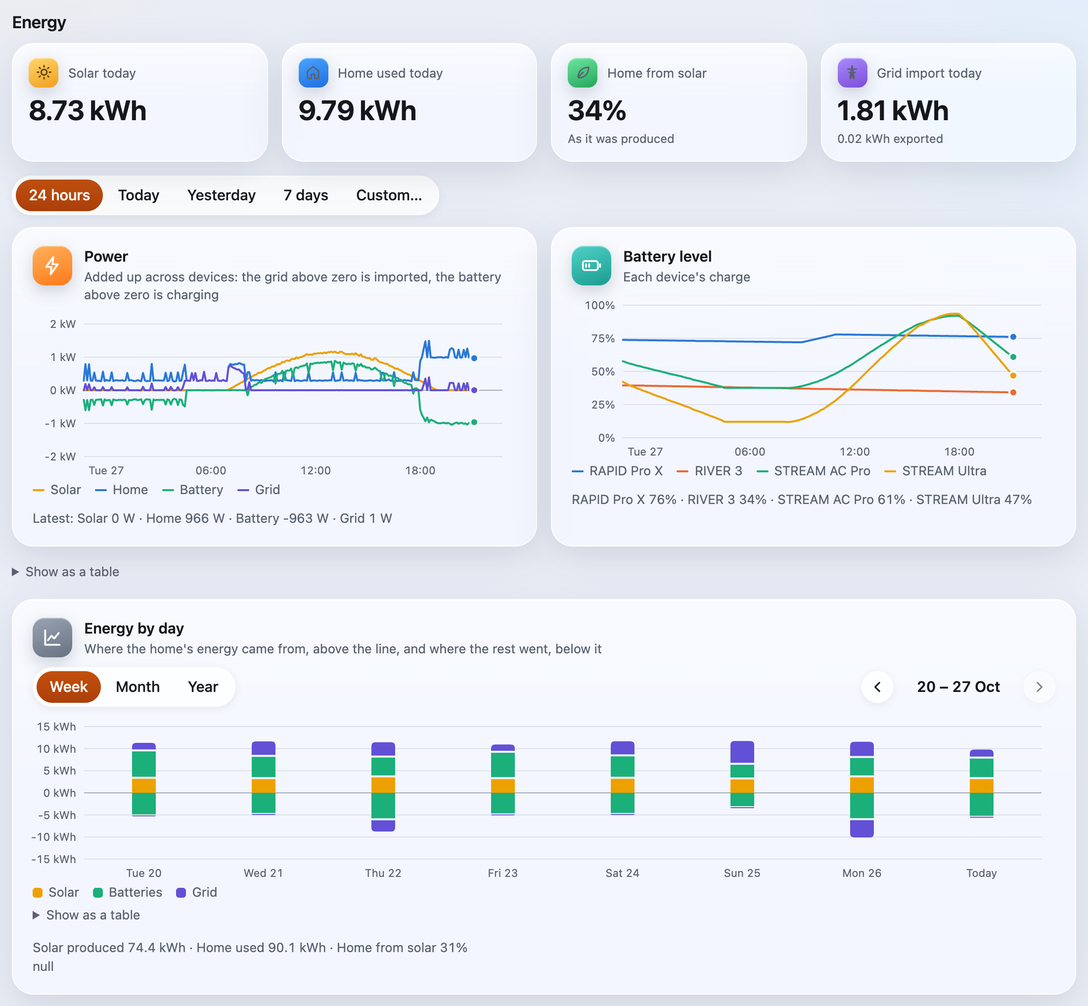
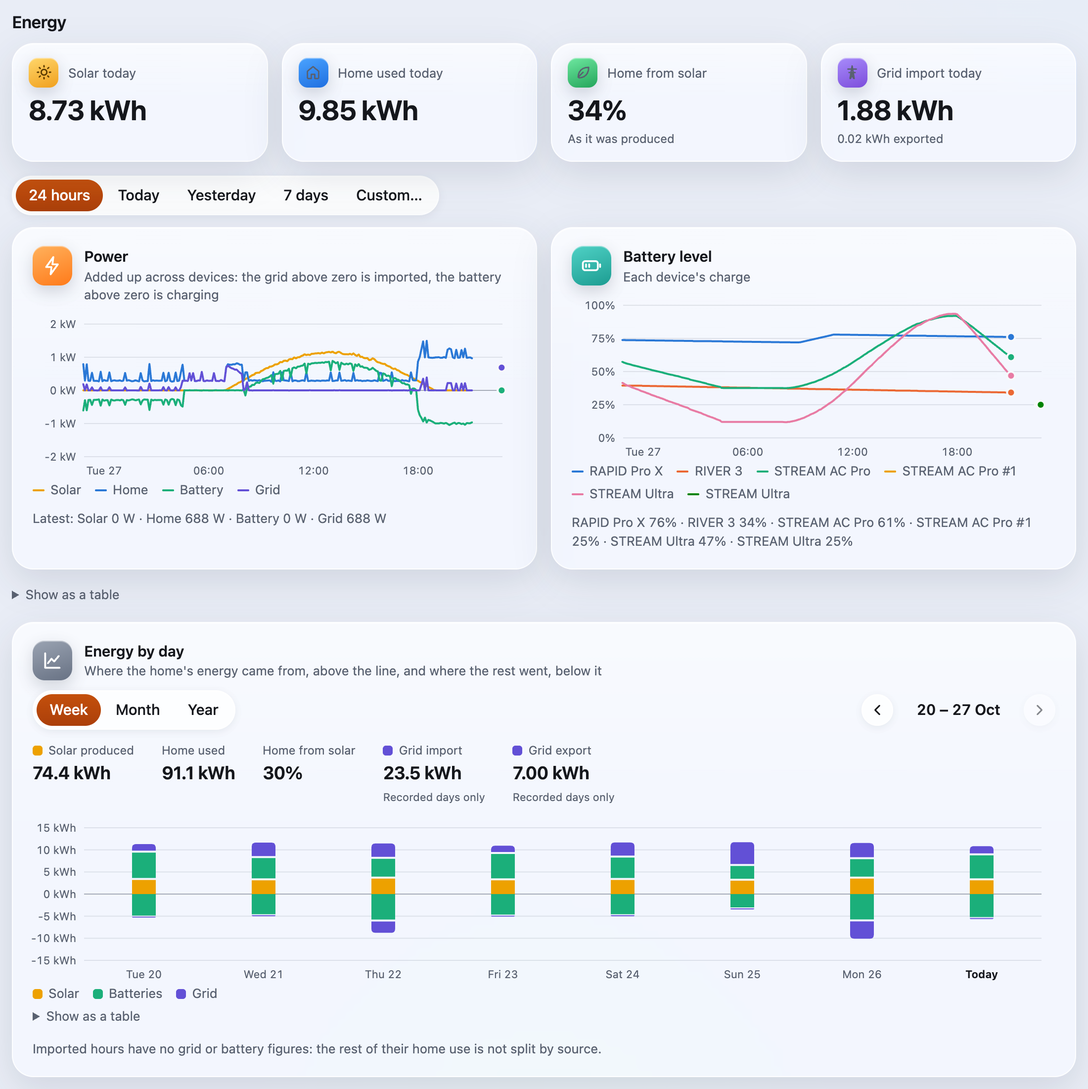
Energy history: the period's totals over the bars, honest tooltips
The period's totals sit over the bars as labelled figures, a colour key
only for what the bars draw, the grid's marked as covering recorded days
only when the period has imported ones. A tooltip shows a dash, not a
zero, for a flow an imported day does not know. The bar of today, or of
this month, has its label emphasised. On a phone the period control spans
the width and the arrows sit on their own row. An empty note no longer
prints null.

diff --git a/Sources/HomeswiftUI/WebAssets.swift b/Sources/HomeswiftUI/WebAssets.swift
@@ -2275,9 +2275,12 @@ el("p", { class: "muted", text: t("A backup made by Download a backup or kept be
     const previous = el("button", { type: "button", class: "menu-button", "aria-label": t("Previous period"), onclick: () => move(-1) }, HomeswiftCommon.icon("back"));
     const next = el("button", { type: "button", class: "menu-button", "aria-label": t("Next period"), onclick: () => move(1) }, HomeswiftCommon.icon("forward"));
     const periodLabel = el("strong", { class: "energy-period", "aria-live": "polite" });
+    // The period's totals, over the bars.
+    const summary = el("div", { class: "energy-totals" });
     days.node.insertBefore(el("div", { class: "energy-history-bar" },
       el("div", { class: "group", role: "radiogroup", "aria-label": t("Period") }, viewButtons),
       el("div", { class: "energy-period-nav" }, previous, periodLabel, next)), days.body);
+    days.node.insertBefore(summary, days.body);
     let earliest = null, historyAsked = 0;
     const today = el("div", { class: "energy-today" });
     // The charts' points as a table, folded until asked for (the colours alone are not enough to read them by).
@@ -2413,7 +2416,8 @@ el("p", { class: "muted", text: t("A backup made by Download a backup or kept be
       const chartBars = bars.map((bar) => ({
         label: monthly ? shortMonth.format(dateOf(bar)) : view === "month" ? String(dateOf(bar).getDate()) : name(bar, shortDay),
         narrow: monthly ? narrowMonth.format(dateOf(bar)) : String(dateOf(bar).getDate()),
-        title: name(bar, monthly ? monthYear : dayFormat), values: known(bar) ? bar : null }));
+        title: name(bar, monthly ? monthYear : dayFormat), values: known(bar) ? bar : null,
+        current: monthly ? bar.date === today.slice(0, 7) : bar.date === today }));
       const key = view + "\n" + segments.map((one) => one.label).join("\n");
       days.titleNode.textContent = monthly ? t("Energy by month") : t("Energy by day");
       if (days.view && days.key === key) days.view.update(chartBars);
@@ -2421,7 +2425,7 @@ el("p", { class: "muted", text: t("A backup made by Download a backup or kept be
         days.body.replaceChildren();
         days.key = key;
         days.view = HomeswiftChart.stackedBars(days.body, { title: days.titleNode.textContent, legend, bars: chartBars, format: formatKWh, unit: () => 1,
-          segments: segments.map((one) => ({ ...one, value: (values) => values ? (one.below ? -1 : 1) * (values[one.field] ?? 0) : 0 })) });
+          segments: segments.map((one) => ({ ...one, value: (values) => values?.[one.field] == null ? null : (one.below ? -1 : 1) * values[one.field] })) });
         days.body.append(dayTable);
       }
 
@@ -2431,14 +2435,26 @@ el("p", { class: "muted", text: t("A backup made by Download a backup or kept be
       previous.disabled = !earliest || first <= earliest;
       next.disabled = !anchor;
 
-      // The period's totals, and why imported hours have their home use not split.
+      // The period's totals, each labelled with its colour, over the bars; under them, why imported hours have their
+      // home use not split.
       const sum = (field) => bars.filter(known).reduce((total, bar) => bar[field] == null ? total : (total ?? 0) + bar[field], null);
-      const solar = sum("solar"), home = sum("home"), fromSolar = sum("homeFromSolar");
-      const totals = [solar != null ? `${t("Solar produced")} ${formatKWh(solar)}` : null, home != null ? `${t("Home used")} ${formatKWh(home)}` : null,
-        home > 0 && fromSolar != null ? `${t("Home from solar")} ${formatPercent(fromSolar / home * 100)}` : null].filter(Boolean).join(" · ");
-      days.detail.replaceChildren(
-        el("div", { text: totals || t("Nothing recorded in this period") }),
-        bars.some((bar) => bar.importedHours) ? el("div", { text: t("Imported hours have no grid or battery figures: the rest of their home use is not split by source.") }) : null);
+      const solar = sum("solar"), home = sum("home"), fromSolar = sum("homeFromSolar"), imported = sum("gridImport"), exported = sum("gridExport");
+      // A key only for a colour the bars draw; the grid's figures, known for the days the bridge recorded only, say so
+      // when the period has imported days too.
+      const partly = bars.some((bar) => bar.importedHours);
+      const total = (tone, label, value, note) => el("div", { class: "energy-total" },
+        el("span", {}, tone ? el("i", { class: `key bar tone-${tone}`, "aria-hidden": "true" }) : null, label), el("b", { text: value }),
+        note ? el("small", { text: note }) : null);
+      const totals = [
+        solar != null ? total(4, t("Solar produced"), formatKWh(solar)) : null,
+        home != null ? total(null, t("Home used"), formatKWh(home)) : null,
+        home > 0 && fromSolar != null ? total(null, t("Home from solar"), formatPercent(fromSolar / home * 100)) : null,
+        imported != null ? total(7, t("Grid import"), formatKWh(imported), partly ? t("Recorded days only") : null) : null,
+        exported != null ? total(7, t("Grid export"), formatKWh(exported), partly ? t("Recorded days only") : null) : null,
+      ].filter(Boolean);
+      summary.replaceChildren(...(totals.length ? totals : [el("span", { class: "muted", text: t("Nothing recorded in this period") })]));
+      days.detail.replaceChildren(...[bars.some((bar) => bar.importedHours)
+        ? el("div", { text: t("Imported hours have no grid or battery figures: the rest of their home use is not split by source.") }) : null].filter(Boolean));
 
       const columns = [
         has("solar") ? [t("Solar produced"), "solar", formatKWh] : null,
@@ -5855,10 +5871,11 @@ el("p", { class: "muted", text: t("A backup made by Download a backup or kept be
     };
   }
 
-  /// Stacked bars in `container`, one per item of `bars` (`{ label, narrow, title, values }`, oldest first; `narrow` under a
-  /// bar too narrow for its label): `segments` are
+  /// Stacked bars in `container`, one per item of `bars` (`{ label, narrow, title, values, current }`, oldest first;
+  /// `narrow` under a bar too narrow for its label, `current` the period of today, its label emphasised): `segments` are
   /// `{ label, tone, value(values) }`, stacked up from zero for a positive value and down for a negative one, so a bar
-  /// can show what came in above the line and what went out below it. `format` writes a value with its unit and
+  /// can show what came in above the line and what went out below it. A value of null is not known: it draws nothing
+  /// and the tooltip shows a dash, not a zero. `format` writes a value with its unit and
   /// `unit(max)` sizes the ticks, as for `lineChart`. A tooltip lists a bar's segments, on hover and with the arrow keys.
   /// Returns `update(bars)`.
   /// `legend` (`{ label, tone }`) names the colours when segments share one (an entity above and below the line).
@@ -5883,7 +5900,8 @@ el("p", { class: "muted", text: t("A backup made by Download a backup or kept be
       const width = Math.max(frame.clientWidth, 240);
       const bars = state;
       const plotWidth = width - pad.left - pad.right, plotHeight = height - pad.top - pad.bottom;
-      const sums = bars.map((bar) => segments.map((one) => one.value(bar.values) ?? 0));
+      const known = bars.map((bar) => segments.map((one) => one.value(bar.values)));
+      const sums = known.map((values) => values.map((value) => value ?? 0));
       const highest = Math.max(0, ...sums.map((list) => list.filter((v) => v > 0).reduce((a, b) => a + b, 0)));
       const lowest = Math.min(0, ...sums.map((list) => list.filter((v) => v < 0).reduce((a, b) => a + b, 0)));
       const size = Math.max(highest, -lowest);
@@ -5937,7 +5955,7 @@ el("p", { class: "muted", text: t("A backup made by Download a backup or kept be
         // Bars too narrow for every label (a month's days on a phone) label one in `every`, the last always.
         const every = slot < 24 ? Math.ceil(24 / slot) : 1;
         if (index % every !== 0 && index !== bars.length - 1) return;
-        const label = svg("text", { x: x(index), y: height - 6, class: "tick", "text-anchor": "middle" });
+        const label = svg("text", { x: x(index), y: height - 6, class: bar.current ? "tick current" : "tick", "text-anchor": "middle" });
         label.textContent = slot < 64 && bar.narrow ? bar.narrow : bar.label;
         root.append(label);
       });
@@ -5953,7 +5971,8 @@ el("p", { class: "muted", text: t("A backup made by Download a backup or kept be
         tooltip.replaceChildren(html("div", "chart-time", bars[index].title ?? bars[index].label));
         segments.forEach((one, i) => {
           const row = html("div", "chart-row");
-          row.append(html("i", `key bar tone-${one.tone}`), html("b", "", format(Math.abs(sums[index][i]))), html("span", "muted", one.label));
+          const value = known[index][i];
+          row.append(html("i", `key bar tone-${one.tone}`), html("b", "", value == null ? "–" : format(Math.abs(value))), html("span", "muted", one.label));
           tooltip.append(row);
         });
         tooltip.classList.remove("hidden");
@@ -11790,7 +11809,8 @@ HomeswiftI18n.add("es", {
   "Not split": "Sin desglose",
   "Energy by month": "Energía por mes",
   "Nothing recorded in this period": "Nada registrado en este periodo",
-  "Imported hours have no grid or battery figures: the rest of their home use is not split by source.": "Las horas importadas no tienen datos de red ni de batería: el resto de su consumo no se desglosa por fuente."
+  "Imported hours have no grid or battery figures: the rest of their home use is not split by source.": "Las horas importadas no tienen datos de red ni de batería: el resto de su consumo no se desglosa por fuente.",
+  "Recorded days only": "Solo días registrados"
 });
 
 """#),
@@ -14012,7 +14032,8 @@ HomeswiftI18n.add("fr", {
   "Not split": "Non réparti",
   "Energy by month": "Énergie par mois",
   "Nothing recorded in this period": "Rien d’enregistré sur cette période",
-  "Imported hours have no grid or battery figures: the rest of their home use is not split by source.": "Les heures importées n’ont pas de chiffres de réseau ni de batterie : le reste de leur consommation n’est pas réparti par source."
+  "Imported hours have no grid or battery figures: the rest of their home use is not split by source.": "Les heures importées n’ont pas de chiffres de réseau ni de batterie : le reste de leur consommation n’est pas réparti par source.",
+  "Recorded days only": "Jours enregistrés seulement"
 });
 
 """#),
@@ -16234,7 +16255,8 @@ HomeswiftI18n.add("pt", {
   "Not split": "Sem divisão",
   "Energy by month": "Energia por mês",
   "Nothing recorded in this period": "Nada registado neste período",
-  "Imported hours have no grid or battery figures: the rest of their home use is not split by source.": "As horas importadas não têm valores de rede nem de bateria: o resto do seu consumo não é dividido por fonte."
+  "Imported hours have no grid or battery figures: the rest of their home use is not split by source.": "As horas importadas não têm valores de rede nem de bateria: o resto do seu consumo não é dividido por fonte.",
+  "Recorded days only": "Só dias registados"
 });
 
 """#),
@@ -19138,6 +19160,11 @@ a.stat:active { transform: scale(0.97); transition-duration: 80ms; }
   .energy .chart-head .tile svg { width: 18px; height: 18px; }
   .energy .chart-head .muted { font-size: 0.75rem; }
   .energy .range-control { display: flex; width: 100%; }
+  .energy-history-bar > .group { display: flex; width: 100%; }
+  .energy-history-bar > .group button { flex: 1; }
+  .energy-period-nav { width: 100%; justify-content: space-between; }
+  .energy-totals { gap: 8px 18px; }
+  .energy-total b { font-size: 1rem; }
   .energy .range-control button { flex: 1 0 auto; padding-inline: 10px; }
 }
 .energy .chart-table { margin-top: 12px; }
@@ -19146,6 +19173,14 @@ a.stat:active { transform: scale(0.97); transition-duration: 80ms; }
 .energy-history-bar { display: flex; align-items: center; justify-content: space-between; gap: 10px; flex-wrap: wrap; }
 .energy-period-nav { display: flex; align-items: center; gap: 6px; }
 .energy-period { min-width: 12ch; text-align: center; font-size: 0.9375rem; font-variant-numeric: tabular-nums; }
+/* The period's totals over the bars: a muted label with its colour key over a proportional figure. */
+.energy-totals { display: flex; flex-wrap: wrap; align-items: flex-start; gap: 8px 28px; padding: 2px 0 4px; }
+.energy-total { display: grid; gap: 2px; align-content: start; }
+.energy-total span { display: inline-flex; align-items: center; gap: 6px; font-size: 0.75rem; color: var(--muted); }
+.energy-total .key { display: inline-block; width: 10px; height: 10px; border-radius: 3px; }
+.energy-total b { font-size: 1.125rem; font-weight: 650; letter-spacing: -0.01em; }
+.energy-total small { font-size: 0.6875rem; color: var(--muted); }
+.chart .tick.current { fill: var(--text); font-weight: 650; }
 .energy-period-nav .menu-button svg { fill: none; stroke: currentColor; stroke-width: 2; stroke-linecap: round; stroke-linejoin: round; }
 .energy-days .chart-table { margin-top: 0; }
 .energy-days .chart-table thead th.time { text-align: left; }

diff --git a/Sources/HomeswiftUI/Web/app.js b/Sources/HomeswiftUI/Web/app.js
@@ -898,9 +898,12 @@
     const previous = el("button", { type: "button", class: "menu-button", "aria-label": t("Previous period"), onclick: () => move(-1) }, HomeswiftCommon.icon("back"));
     const next = el("button", { type: "button", class: "menu-button", "aria-label": t("Next period"), onclick: () => move(1) }, HomeswiftCommon.icon("forward"));
     const periodLabel = el("strong", { class: "energy-period", "aria-live": "polite" });
+    // The period's totals, over the bars.
+    const summary = el("div", { class: "energy-totals" });
     days.node.insertBefore(el("div", { class: "energy-history-bar" },
       el("div", { class: "group", role: "radiogroup", "aria-label": t("Period") }, viewButtons),
       el("div", { class: "energy-period-nav" }, previous, periodLabel, next)), days.body);
+    days.node.insertBefore(summary, days.body);
     let earliest = null, historyAsked = 0;
     const today = el("div", { class: "energy-today" });
     // The charts' points as a table, folded until asked for (the colours alone are not enough to read them by).
@@ -1036,7 +1039,8 @@
       const chartBars = bars.map((bar) => ({
         label: monthly ? shortMonth.format(dateOf(bar)) : view === "month" ? String(dateOf(bar).getDate()) : name(bar, shortDay),
         narrow: monthly ? narrowMonth.format(dateOf(bar)) : String(dateOf(bar).getDate()),
-        title: name(bar, monthly ? monthYear : dayFormat), values: known(bar) ? bar : null }));
+        title: name(bar, monthly ? monthYear : dayFormat), values: known(bar) ? bar : null,
+        current: monthly ? bar.date === today.slice(0, 7) : bar.date === today }));
       const key = view + "\n" + segments.map((one) => one.label).join("\n");
       days.titleNode.textContent = monthly ? t("Energy by month") : t("Energy by day");
       if (days.view && days.key === key) days.view.update(chartBars);
@@ -1044,7 +1048,7 @@
         days.body.replaceChildren();
         days.key = key;
         days.view = HomeswiftChart.stackedBars(days.body, { title: days.titleNode.textContent, legend, bars: chartBars, format: formatKWh, unit: () => 1,
-          segments: segments.map((one) => ({ ...one, value: (values) => values ? (one.below ? -1 : 1) * (values[one.field] ?? 0) : 0 })) });
+          segments: segments.map((one) => ({ ...one, value: (values) => values?.[one.field] == null ? null : (one.below ? -1 : 1) * values[one.field] })) });
         days.body.append(dayTable);
       }
 
@@ -1054,14 +1058,26 @@
       previous.disabled = !earliest || first <= earliest;
       next.disabled = !anchor;
 
-      // The period's totals, and why imported hours have their home use not split.
+      // The period's totals, each labelled with its colour, over the bars; under them, why imported hours have their
+      // home use not split.
       const sum = (field) => bars.filter(known).reduce((total, bar) => bar[field] == null ? total : (total ?? 0) + bar[field], null);
-      const solar = sum("solar"), home = sum("home"), fromSolar = sum("homeFromSolar");
-      const totals = [solar != null ? `${t("Solar produced")} ${formatKWh(solar)}` : null, home != null ? `${t("Home used")} ${formatKWh(home)}` : null,
-        home > 0 && fromSolar != null ? `${t("Home from solar")} ${formatPercent(fromSolar / home * 100)}` : null].filter(Boolean).join(" · ");
-      days.detail.replaceChildren(
-        el("div", { text: totals || t("Nothing recorded in this period") }),
-        bars.some((bar) => bar.importedHours) ? el("div", { text: t("Imported hours have no grid or battery figures: the rest of their home use is not split by source.") }) : null);
+      const solar = sum("solar"), home = sum("home"), fromSolar = sum("homeFromSolar"), imported = sum("gridImport"), exported = sum("gridExport");
+      // A key only for a colour the bars draw; the grid's figures, known for the days the bridge recorded only, say so
+      // when the period has imported days too.
+      const partly = bars.some((bar) => bar.importedHours);
+      const total = (tone, label, value, note) => el("div", { class: "energy-total" },
+        el("span", {}, tone ? el("i", { class: `key bar tone-${tone}`, "aria-hidden": "true" }) : null, label), el("b", { text: value }),
+        note ? el("small", { text: note }) : null);
+      const totals = [
+        solar != null ? total(4, t("Solar produced"), formatKWh(solar)) : null,
+        home != null ? total(null, t("Home used"), formatKWh(home)) : null,
+        home > 0 && fromSolar != null ? total(null, t("Home from solar"), formatPercent(fromSolar / home * 100)) : null,
+        imported != null ? total(7, t("Grid import"), formatKWh(imported), partly ? t("Recorded days only") : null) : null,
+        exported != null ? total(7, t("Grid export"), formatKWh(exported), partly ? t("Recorded days only") : null) : null,
+      ].filter(Boolean);
+      summary.replaceChildren(...(totals.length ? totals : [el("span", { class: "muted", text: t("Nothing recorded in this period") })]));
+      days.detail.replaceChildren(...[bars.some((bar) => bar.importedHours)
+        ? el("div", { text: t("Imported hours have no grid or battery figures: the rest of their home use is not split by source.") }) : null].filter(Boolean));
 
       const columns = [
         has("solar") ? [t("Solar produced"), "solar", formatKWh] : null,

diff --git a/Sources/HomeswiftUI/Web/charts.js b/Sources/HomeswiftUI/Web/charts.js
@@ -229,10 +229,11 @@
     };
   }
 
-  /// Stacked bars in `container`, one per item of `bars` (`{ label, narrow, title, values }`, oldest first; `narrow` under a
-  /// bar too narrow for its label): `segments` are
+  /// Stacked bars in `container`, one per item of `bars` (`{ label, narrow, title, values, current }`, oldest first;
+  /// `narrow` under a bar too narrow for its label, `current` the period of today, its label emphasised): `segments` are
   /// `{ label, tone, value(values) }`, stacked up from zero for a positive value and down for a negative one, so a bar
-  /// can show what came in above the line and what went out below it. `format` writes a value with its unit and
+  /// can show what came in above the line and what went out below it. A value of null is not known: it draws nothing
+  /// and the tooltip shows a dash, not a zero. `format` writes a value with its unit and
   /// `unit(max)` sizes the ticks, as for `lineChart`. A tooltip lists a bar's segments, on hover and with the arrow keys.
   /// Returns `update(bars)`.
   /// `legend` (`{ label, tone }`) names the colours when segments share one (an entity above and below the line).
@@ -257,7 +258,8 @@
       const width = Math.max(frame.clientWidth, 240);
       const bars = state;
       const plotWidth = width - pad.left - pad.right, plotHeight = height - pad.top - pad.bottom;
-      const sums = bars.map((bar) => segments.map((one) => one.value(bar.values) ?? 0));
+      const known = bars.map((bar) => segments.map((one) => one.value(bar.values)));
+      const sums = known.map((values) => values.map((value) => value ?? 0));
       const highest = Math.max(0, ...sums.map((list) => list.filter((v) => v > 0).reduce((a, b) => a + b, 0)));
       const lowest = Math.min(0, ...sums.map((list) => list.filter((v) => v < 0).reduce((a, b) => a + b, 0)));
       const size = Math.max(highest, -lowest);
@@ -311,7 +313,7 @@
         // Bars too narrow for every label (a month's days on a phone) label one in `every`, the last always.
         const every = slot < 24 ? Math.ceil(24 / slot) : 1;
         if (index % every !== 0 && index !== bars.length - 1) return;
-        const label = svg("text", { x: x(index), y: height - 6, class: "tick", "text-anchor": "middle" });
+        const label = svg("text", { x: x(index), y: height - 6, class: bar.current ? "tick current" : "tick", "text-anchor": "middle" });
         label.textContent = slot < 64 && bar.narrow ? bar.narrow : bar.label;
         root.append(label);
       });
@@ -327,7 +329,8 @@
         tooltip.replaceChildren(html("div", "chart-time", bars[index].title ?? bars[index].label));
         segments.forEach((one, i) => {
           const row = html("div", "chart-row");
-          row.append(html("i", `key bar tone-${one.tone}`), html("b", "", format(Math.abs(sums[index][i]))), html("span", "muted", one.label));
+          const value = known[index][i];
+          row.append(html("i", `key bar tone-${one.tone}`), html("b", "", value == null ? "–" : format(Math.abs(value))), html("span", "muted", one.label));
           tooltip.append(row);
         });
         tooltip.classList.remove("hidden");

diff --git a/Sources/HomeswiftUI/Web/style.css b/Sources/HomeswiftUI/Web/style.css
@@ -1236,6 +1236,11 @@ a.stat:active { transform: scale(0.97); transition-duration: 80ms; }
   .energy .chart-head .tile svg { width: 18px; height: 18px; }
   .energy .chart-head .muted { font-size: 0.75rem; }
   .energy .range-control { display: flex; width: 100%; }
+  .energy-history-bar > .group { display: flex; width: 100%; }
+  .energy-history-bar > .group button { flex: 1; }
+  .energy-period-nav { width: 100%; justify-content: space-between; }
+  .energy-totals { gap: 8px 18px; }
+  .energy-total b { font-size: 1rem; }
   .energy .range-control button { flex: 1 0 auto; padding-inline: 10px; }
 }
 .energy .chart-table { margin-top: 12px; }
@@ -1244,6 +1249,14 @@ a.stat:active { transform: scale(0.97); transition-duration: 80ms; }
 .energy-history-bar { display: flex; align-items: center; justify-content: space-between; gap: 10px; flex-wrap: wrap; }
 .energy-period-nav { display: flex; align-items: center; gap: 6px; }
 .energy-period { min-width: 12ch; text-align: center; font-size: 0.9375rem; font-variant-numeric: tabular-nums; }
+/* The period's totals over the bars: a muted label with its colour key over a proportional figure. */
+.energy-totals { display: flex; flex-wrap: wrap; align-items: flex-start; gap: 8px 28px; padding: 2px 0 4px; }
+.energy-total { display: grid; gap: 2px; align-content: start; }
+.energy-total span { display: inline-flex; align-items: center; gap: 6px; font-size: 0.75rem; color: var(--muted); }
+.energy-total .key { display: inline-block; width: 10px; height: 10px; border-radius: 3px; }
+.energy-total b { font-size: 1.125rem; font-weight: 650; letter-spacing: -0.01em; }
+.energy-total small { font-size: 0.6875rem; color: var(--muted); }
+.chart .tick.current { fill: var(--text); font-weight: 650; }
 .energy-period-nav .menu-button svg { fill: none; stroke: currentColor; stroke-width: 2; stroke-linecap: round; stroke-linejoin: round; }
 .energy-days .chart-table { margin-top: 0; }
 .energy-days .chart-table thead th.time { text-align: left; }

diff --git a/site/design/runtime/style.css b/site/design/runtime/style.css
@@ -1236,6 +1236,11 @@ a.stat:active { transform: scale(0.97); transition-duration: 80ms; }
   .energy .chart-head .tile svg { width: 18px; height: 18px; }
   .energy .chart-head .muted { font-size: 0.75rem; }
   .energy .range-control { display: flex; width: 100%; }
+  .energy-history-bar > .group { display: flex; width: 100%; }
+  .energy-history-bar > .group button { flex: 1; }
+  .energy-period-nav { width: 100%; justify-content: space-between; }
+  .energy-totals { gap: 8px 18px; }
+  .energy-total b { font-size: 1rem; }
   .energy .range-control button { flex: 1 0 auto; padding-inline: 10px; }
 }
 .energy .chart-table { margin-top: 12px; }
@@ -1244,6 +1249,14 @@ a.stat:active { transform: scale(0.97); transition-duration: 80ms; }
 .energy-history-bar { display: flex; align-items: center; justify-content: space-between; gap: 10px; flex-wrap: wrap; }
 .energy-period-nav { display: flex; align-items: center; gap: 6px; }
 .energy-period { min-width: 12ch; text-align: center; font-size: 0.9375rem; font-variant-numeric: tabular-nums; }
+/* The period's totals over the bars: a muted label with its colour key over a proportional figure. */
+.energy-totals { display: flex; flex-wrap: wrap; align-items: flex-start; gap: 8px 28px; padding: 2px 0 4px; }
+.energy-total { display: grid; gap: 2px; align-content: start; }
+.energy-total span { display: inline-flex; align-items: center; gap: 6px; font-size: 0.75rem; color: var(--muted); }
+.energy-total .key { display: inline-block; width: 10px; height: 10px; border-radius: 3px; }
+.energy-total b { font-size: 1.125rem; font-weight: 650; letter-spacing: -0.01em; }
+.energy-total small { font-size: 0.6875rem; color: var(--muted); }
+.chart .tick.current { fill: var(--text); font-weight: 650; }
 .energy-period-nav .menu-button svg { fill: none; stroke: currentColor; stroke-width: 2; stroke-linecap: round; stroke-linejoin: round; }
 .energy-days .chart-table { margin-top: 0; }
 .energy-days .chart-table thead th.time { text-align: left; }

diff --git a/Sources/HomeswiftUI/Web/i18n-fr.js b/Sources/HomeswiftUI/Web/i18n-fr.js
@@ -2215,5 +2215,6 @@ HomeswiftI18n.add("fr", {
   "Not split": "Non réparti",
   "Energy by month": "Énergie par mois",
   "Nothing recorded in this period": "Rien d’enregistré sur cette période",
-  "Imported hours have no grid or battery figures: the rest of their home use is not split by source.": "Les heures importées n’ont pas de chiffres de réseau ni de batterie : le reste de leur consommation n’est pas réparti par source."
+  "Imported hours have no grid or battery figures: the rest of their home use is not split by source.": "Les heures importées n’ont pas de chiffres de réseau ni de batterie : le reste de leur consommation n’est pas réparti par source.",
+  "Recorded days only": "Jours enregistrés seulement"
 });

diff --git a/site/design/runtime/i18n-fr.js b/site/design/runtime/i18n-fr.js
@@ -2215,5 +2215,6 @@ HomeswiftI18n.add("fr", {
   "Not split": "Non réparti",
   "Energy by month": "Énergie par mois",
   "Nothing recorded in this period": "Rien d’enregistré sur cette période",
-  "Imported hours have no grid or battery figures: the rest of their home use is not split by source.": "Les heures importées n’ont pas de chiffres de réseau ni de batterie : le reste de leur consommation n’est pas réparti par source."
+  "Imported hours have no grid or battery figures: the rest of their home use is not split by source.": "Les heures importées n’ont pas de chiffres de réseau ni de batterie : le reste de leur consommation n’est pas réparti par source.",
+  "Recorded days only": "Jours enregistrés seulement"
 });

diff --git a/Sources/HomeswiftUI/Web/i18n-pt.js b/Sources/HomeswiftUI/Web/i18n-pt.js
@@ -2215,5 +2215,6 @@ HomeswiftI18n.add("pt", {
   "Not split": "Sem divisão",
   "Energy by month": "Energia por mês",
   "Nothing recorded in this period": "Nada registado neste período",
-  "Imported hours have no grid or battery figures: the rest of their home use is not split by source.": "As horas importadas não têm valores de rede nem de bateria: o resto do seu consumo não é dividido por fonte."
+  "Imported hours have no grid or battery figures: the rest of their home use is not split by source.": "As horas importadas não têm valores de rede nem de bateria: o resto do seu consumo não é dividido por fonte.",
+  "Recorded days only": "Só dias registados"
 });

diff --git a/site/design/runtime/i18n-pt.js b/site/design/runtime/i18n-pt.js
@@ -2215,5 +2215,6 @@ HomeswiftI18n.add("pt", {
   "Not split": "Sem divisão",
   "Energy by month": "Energia por mês",
   "Nothing recorded in this period": "Nada registado neste período",
-  "Imported hours have no grid or battery figures: the rest of their home use is not split by source.": "As horas importadas não têm valores de rede nem de bateria: o resto do seu consumo não é dividido por fonte."
+  "Imported hours have no grid or battery figures: the rest of their home use is not split by source.": "As horas importadas não têm valores de rede nem de bateria: o resto do seu consumo não é dividido por fonte.",
+  "Recorded days only": "Só dias registados"
 });

diff --git a/Sources/HomeswiftUI/Web/i18n-es.js b/Sources/HomeswiftUI/Web/i18n-es.js
@@ -2215,5 +2215,6 @@ HomeswiftI18n.add("es", {
   "Not split": "Sin desglose",
   "Energy by month": "Energía por mes",
   "Nothing recorded in this period": "Nada registrado en este periodo",
-  "Imported hours have no grid or battery figures: the rest of their home use is not split by source.": "Las horas importadas no tienen datos de red ni de batería: el resto de su consumo no se desglosa por fuente."
+  "Imported hours have no grid or battery figures: the rest of their home use is not split by source.": "Las horas importadas no tienen datos de red ni de batería: el resto de su consumo no se desglosa por fuente.",
+  "Recorded days only": "Solo días registrados"
 });

diff --git a/site/design/runtime/i18n-es.js b/site/design/runtime/i18n-es.js
@@ -2215,5 +2215,6 @@ HomeswiftI18n.add("es", {
   "Not split": "Sin desglose",
   "Energy by month": "Energía por mes",
   "Nothing recorded in this period": "Nada registrado en este periodo",
-  "Imported hours have no grid or battery figures: the rest of their home use is not split by source.": "Las horas importadas no tienen datos de red ni de batería: el resto de su consumo no se desglosa por fuente."
+  "Imported hours have no grid or battery figures: the rest of their home use is not split by source.": "Las horas importadas no tienen datos de red ni de batería: el resto de su consumo no se desglosa por fuente.",
+  "Recorded days only": "Solo días registrados"
 });
